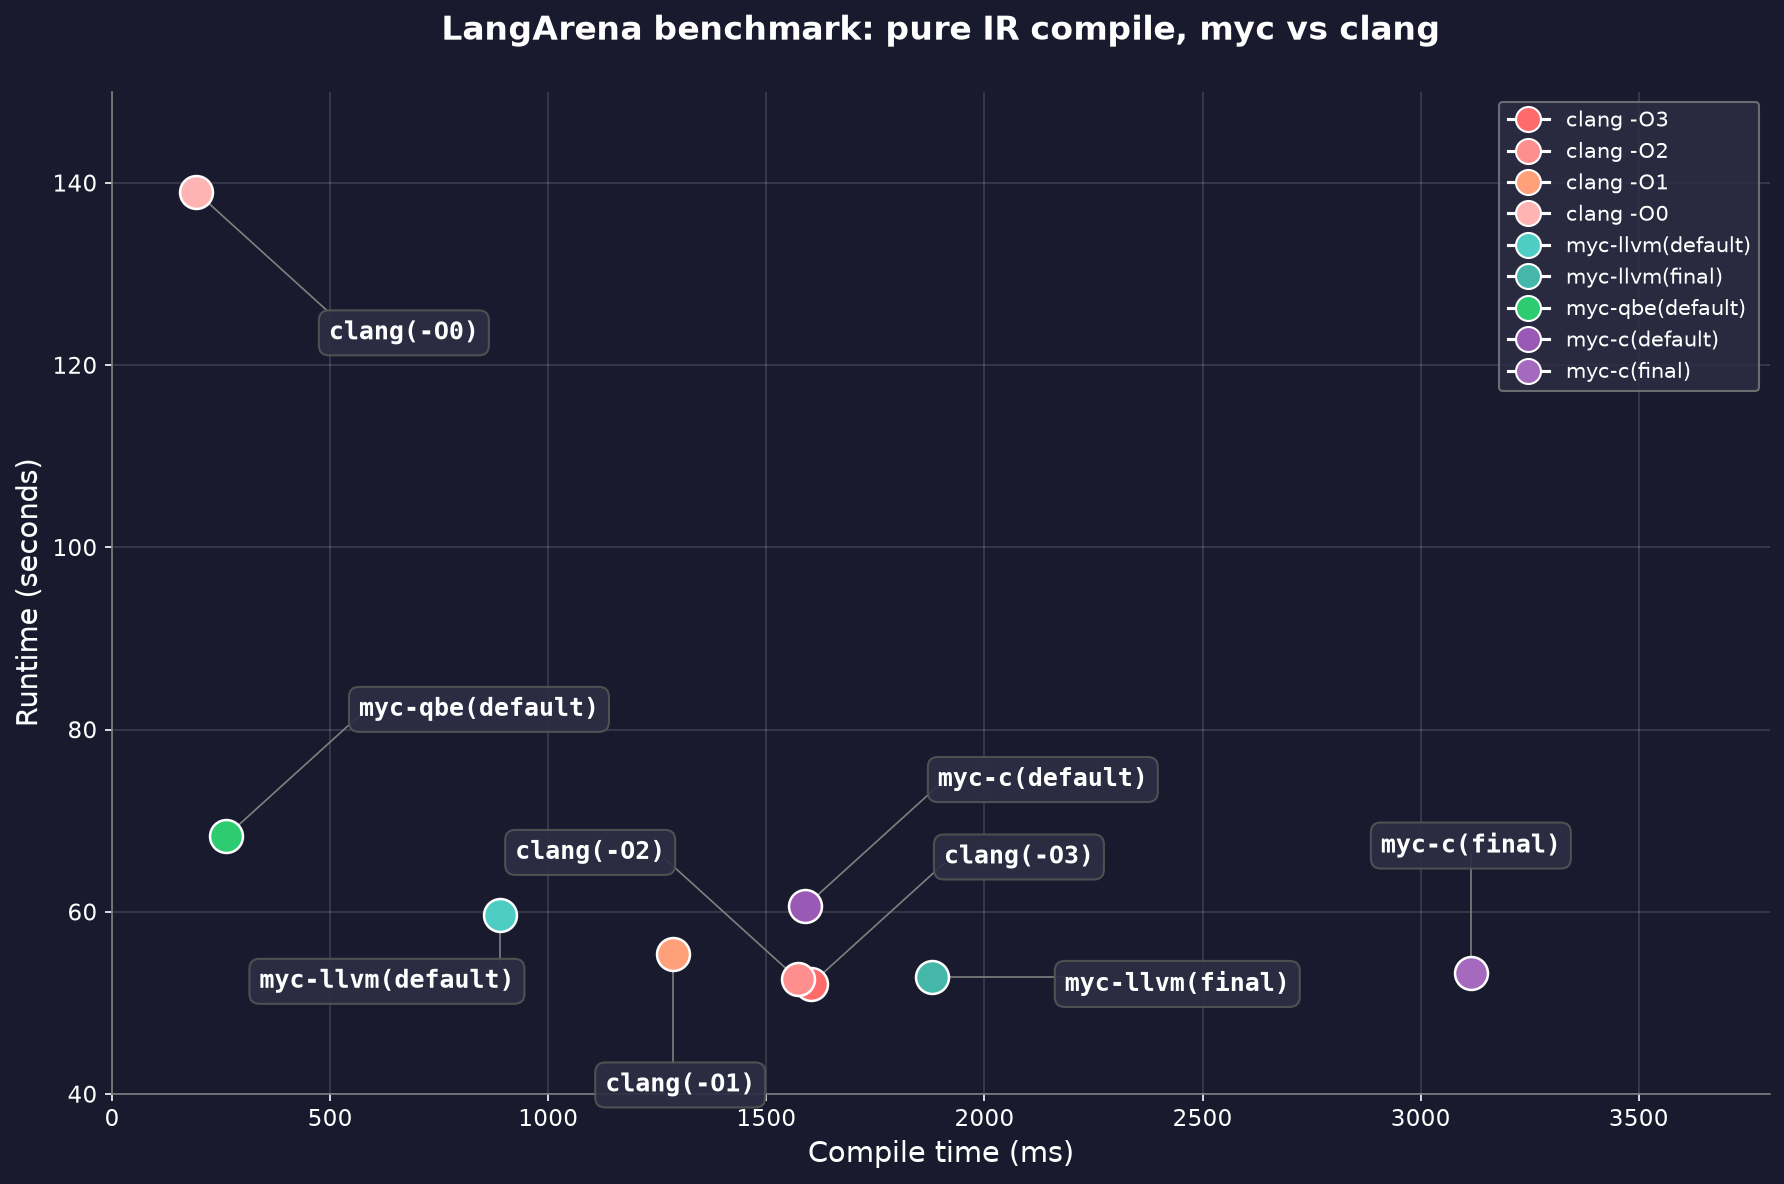
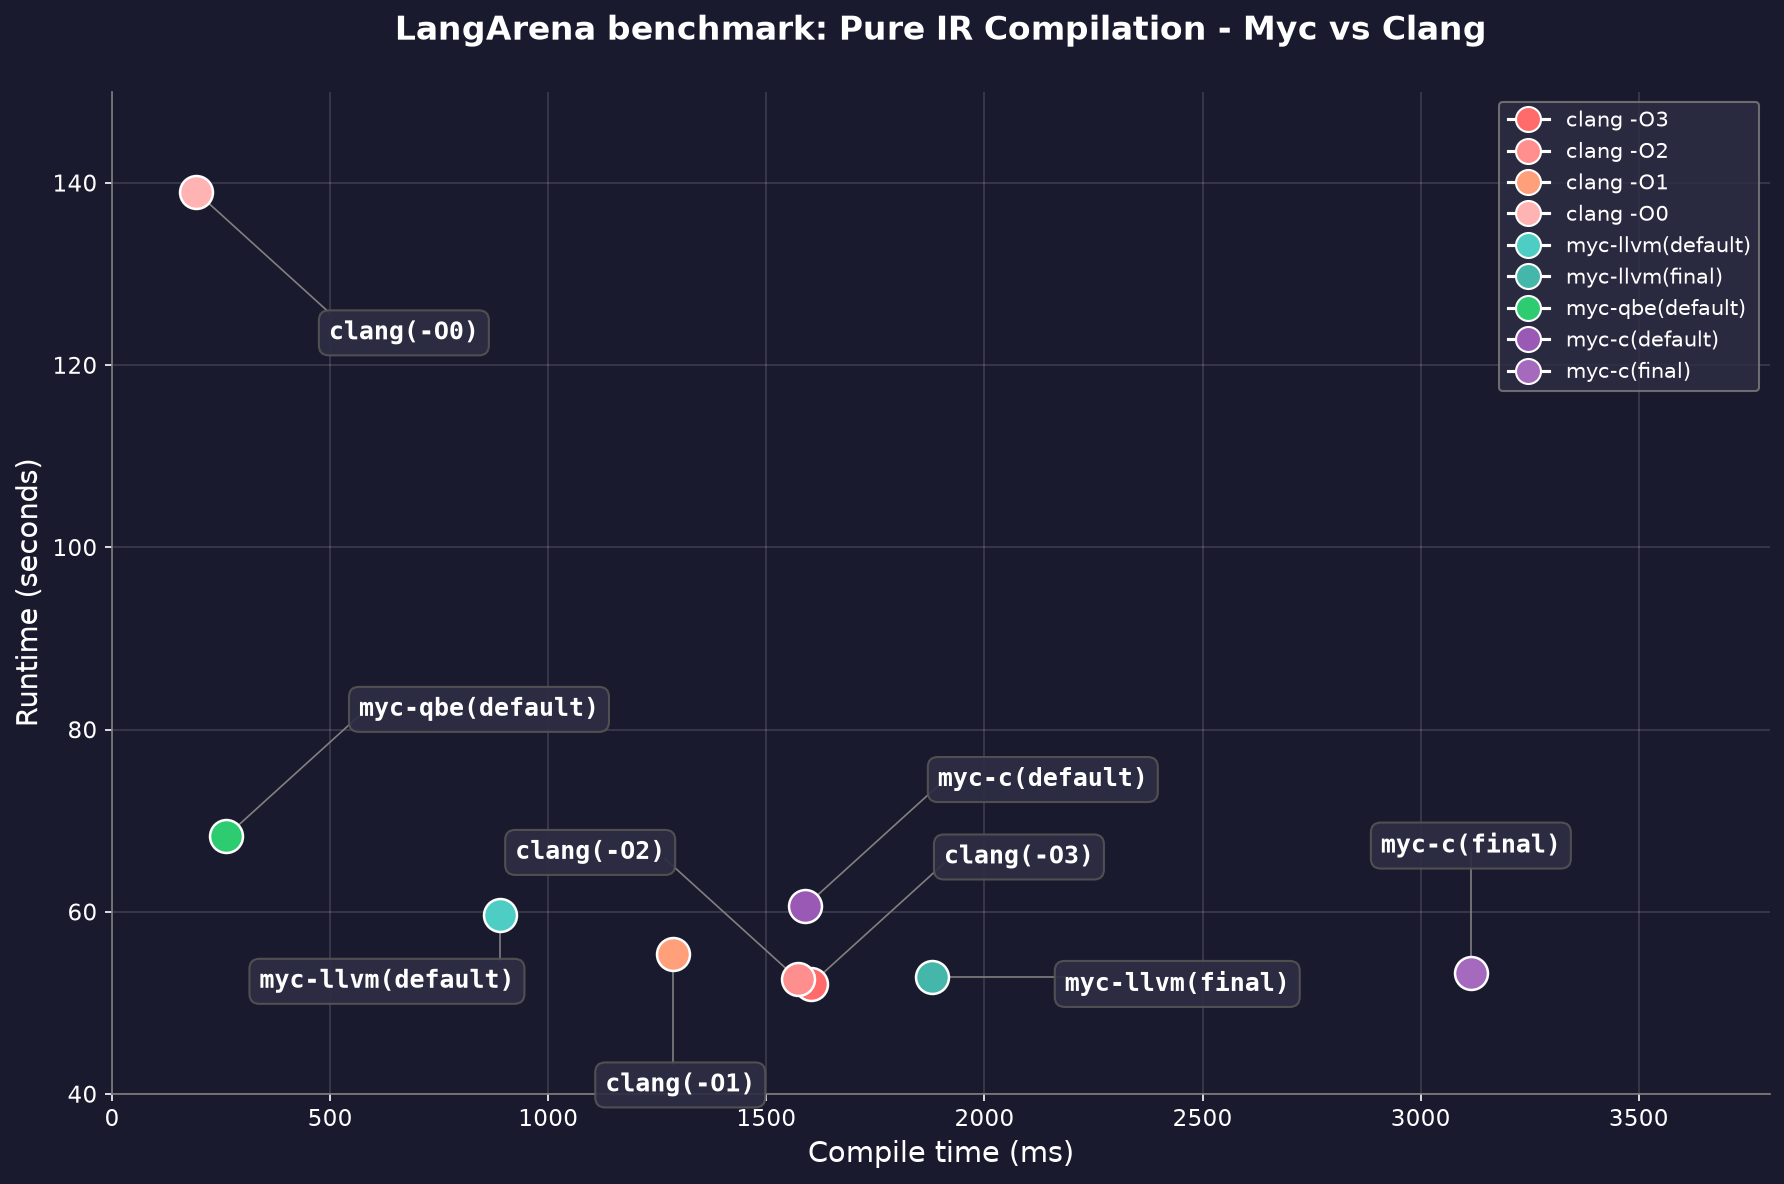
fix

Changed region(s): [[0.2158, 0.0, 0.8324, 0.0625]]

diff --git a/plot1.py b/plot1.py
@@ -88,7 +88,7 @@ for i, name in enumerate(legend_names):
 ax.legend(handles=legend_elements, loc='upper right', facecolor='#2d2d44',
           edgecolor='gray', labelcolor='white', fontsize=10, ncol=1)
 
-ax.set_title('LangArena benchmark: pure IR compile, myc vs clang',
+ax.set_title('LangArena benchmark: Pure IR Compilation - Myc vs Clang',
              color='white', fontsize=16, fontweight='bold', pad=25)
 
 plt.tight_layout()
